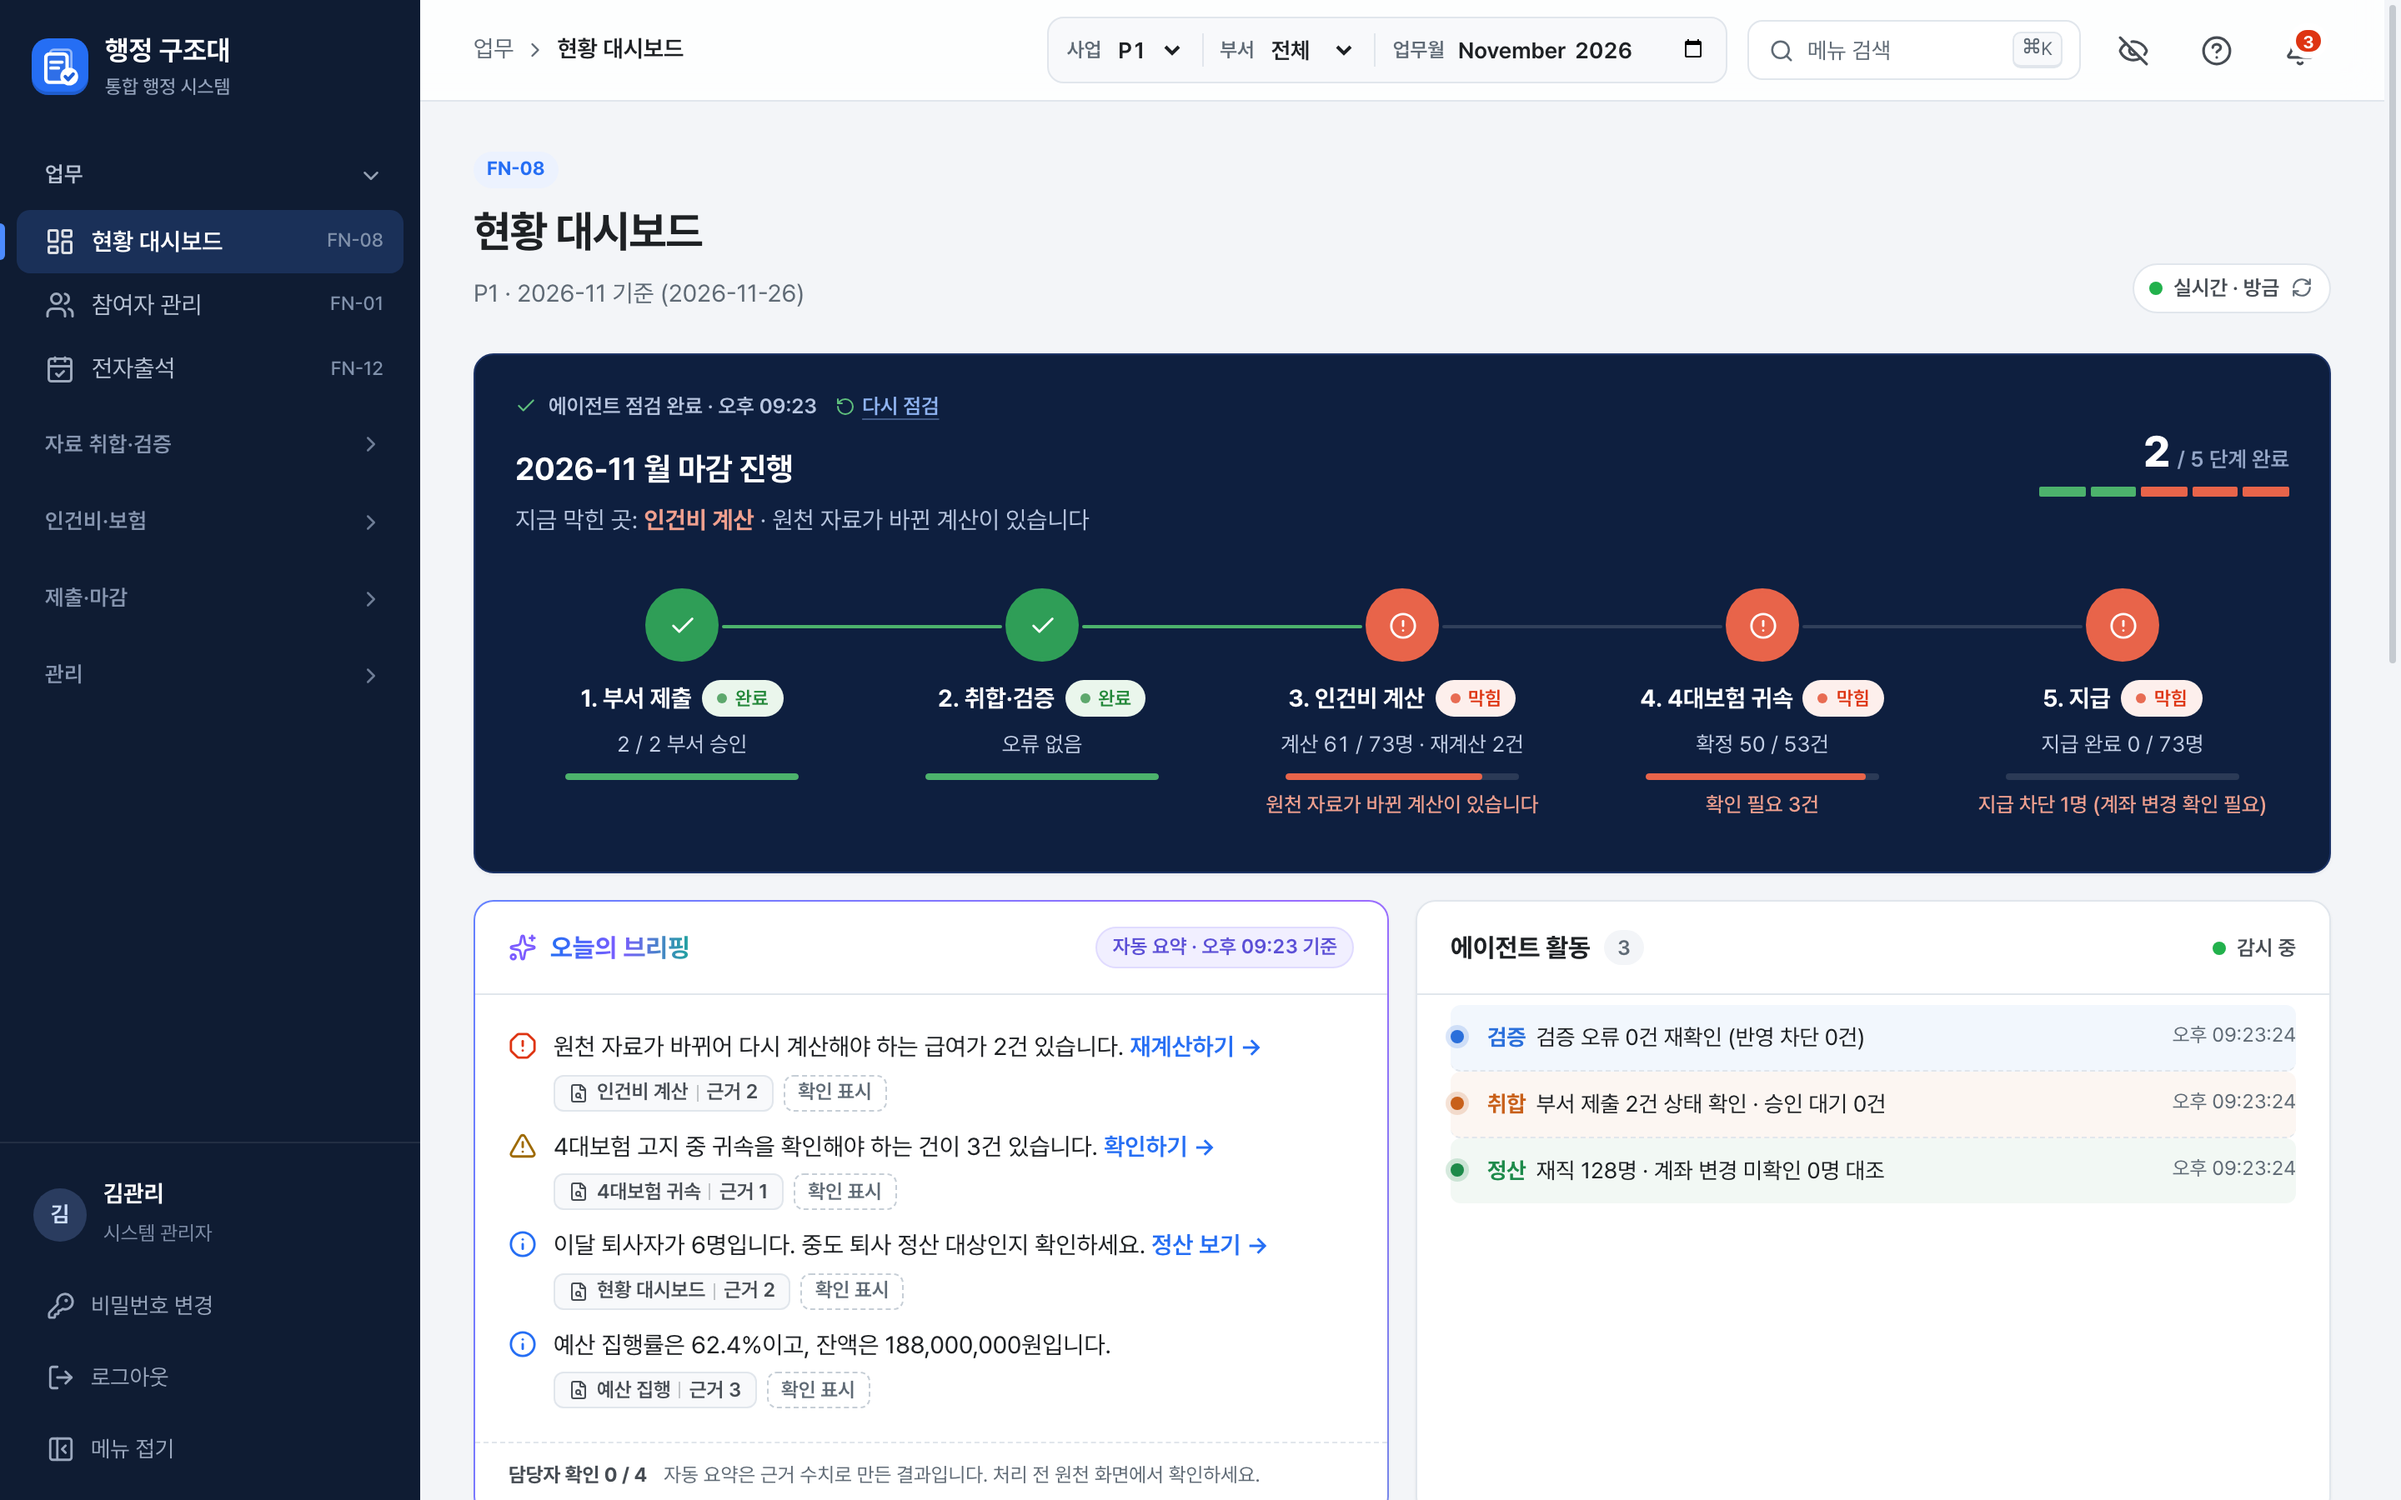
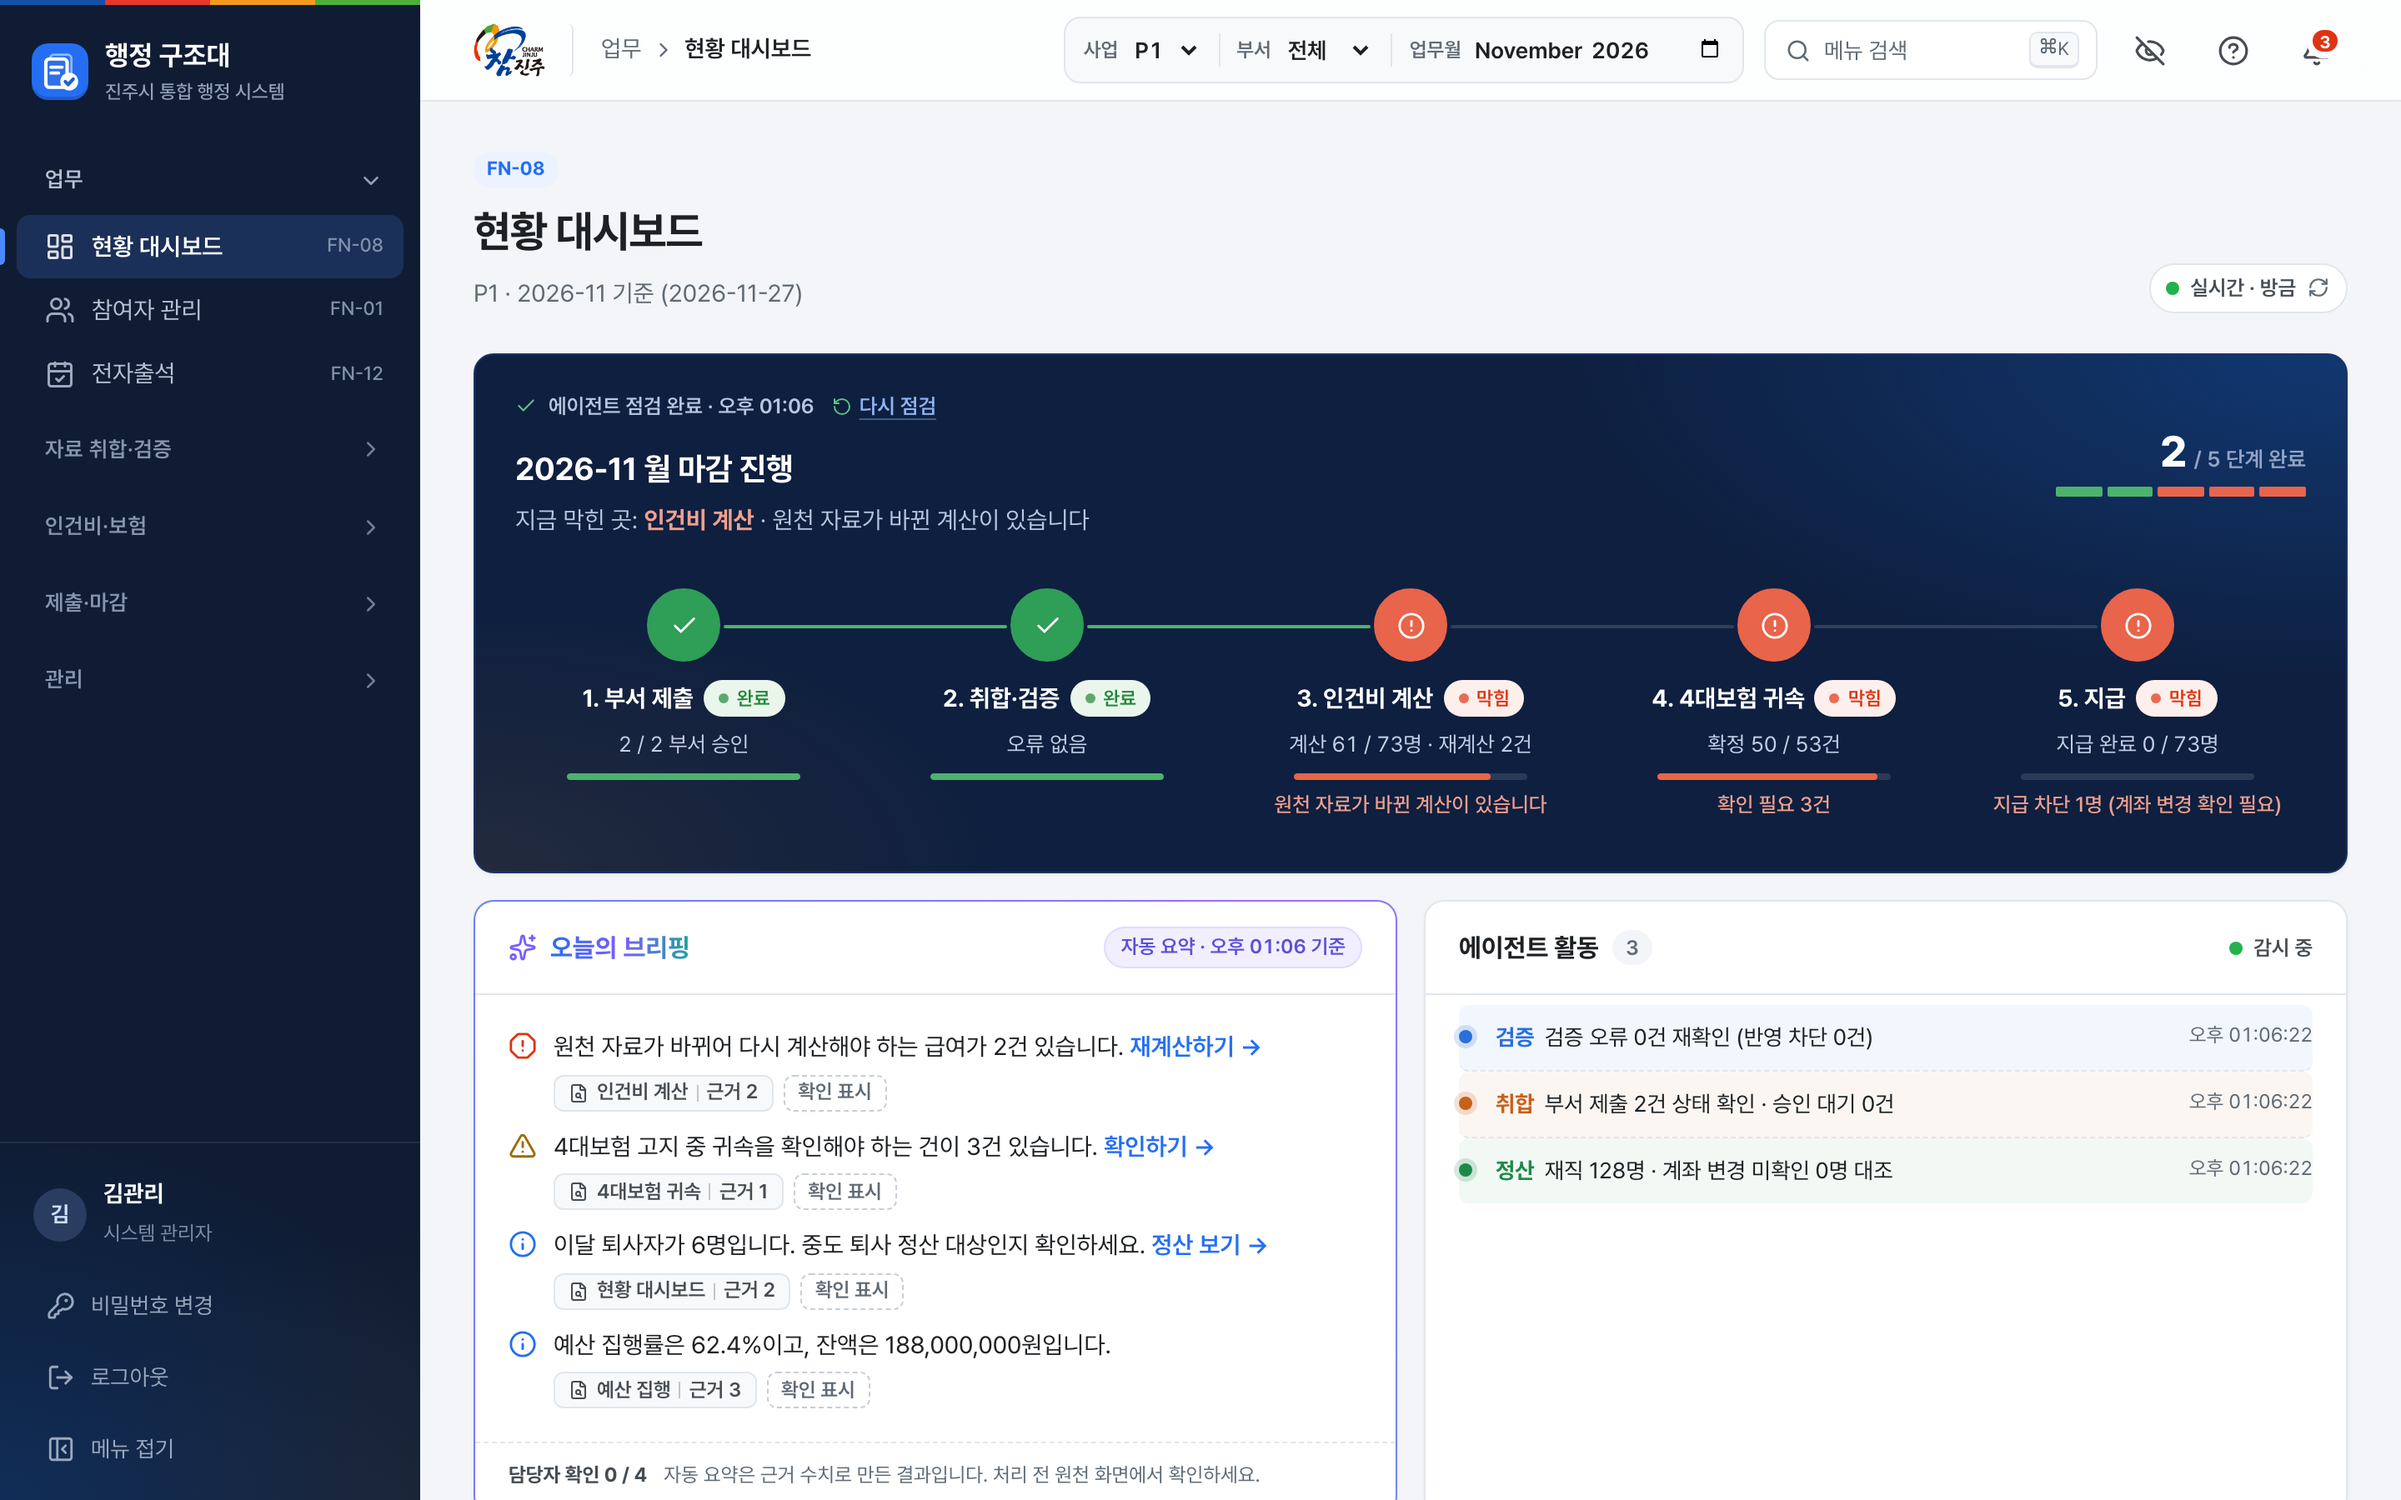
docs: README에 진주시 화면 반영, 스크린샷 새로 찍음
로그인·대시보드·자리 비움 화면을 현재 모습으로 다시 찍고(임시 데이터), 진주시 업무 시스템 화면 설명과 로고 사용 근거, scape.jsx 를 적었다.

diff --git a/README.md b/README.md
@@ -4,7 +4,7 @@
 
 # 행정 구조대
 
-**사업 참여자 인건비 정산을 에이전트와 함께 처리하는 행정 업무 웹**
+**진주시 사업 참여자 인건비 정산을 에이전트와 함께 처리하는 행정 업무 웹**
 
 부서별 엑셀 취합 → 검증 → 인건비 계산 → 4대보험 귀속 → 지급·제출 양식 출력까지<br />
 월 마감 흐름을 한 화면에서 따라갑니다.
@@ -79,11 +79,17 @@
 - **반응형**: 노트북부터 2560px 모니터까지 내용 폭과 메뉴가 맞춰집니다.
 - KRDS(범정부 디자인 시스템) 색·타이포 기준, Pretendard 글꼴.
 
-<details>
-<summary><b>로그인 화면</b></summary>
-<br />
-<img src="docs/screenshots/login.jpg" alt="로그인 화면" width="100%" />
-</details>
+### 진주시 업무 시스템 화면
+
+<img src="docs/screenshots/login.png" alt="로그인 화면: 참진주 로고와 슬로건, 월 마감 5단계, 촉석루와 남강 유등" width="100%" />
+
+- **로그인**: 참진주 로고와 공식 슬로건 이미지, 진주시청 주소, 인가된 담당자 전용 안내와 접속 기록 고지. 비밀번호 칸은 Caps Lock이 켜져 있으면 알려줍니다.
+- **월 마감 미리보기**: 왼쪽에서 취합 → 검증 → 계산 → 귀속 → 출력 단계가 차례로 넘어가며 에이전트가 하는 일을 보여줍니다. 마우스를 올리거나 누르면 그 단계에 멈춥니다.
+- **촉석루와 남강**: 바닥에 촉석루를 선으로 그리고 남강 물결이 흐릅니다. 남강유등축제처럼 유등이 늘 떠서 흘러가고, 마우스가 강 위를 지나가면 더 띄웁니다.
+- **앱 안**: 상단 바 왼쪽에 참진주 로고(누르면 진주시청 누리집), 사이드바 위 브랜드 4색 띠, 사이드바와 월 마감 카드에 로그인과 같은 은은한 빛.
+- 움직임 줄이기 설정을 켜면 단계 자동 전환·물결·유등이 모두 멈춥니다.
+
+> 참진주 로고(`public/jinju-logo.png`)와 슬로건(`public/jinju-slogan.png`)은 진주시 협약에 따라 진주시청 누리집의 이미지를 그대로 사용합니다.
 
 ## 화면 목록
 
@@ -188,7 +194,7 @@ npm run dev
 .
 ├─ index.html
 ├─ vite.config.js        # 개발 서버 프록시 (/api → API_URL)
-├─ public/               # 파비콘
+├─ public/               # 파비콘, 참진주 로고·슬로건
 ├─ docs/screenshots/     # README 화면 (임시 데이터)
 └─ src/
    ├─ main.jsx
@@ -196,6 +202,7 @@ npm run dev
    ├─ api.js             # fetch 래퍼, 토큰, 오류 메시지 정리
    ├─ ui.jsx             # 공통 컴포넌트(표·탭·모달·카드 등), useApi, useUrlState, 상태 라벨
    ├─ agents.jsx         # 에이전트 정의, 화면 안내 투어, 로그인 인트로
+   ├─ scape.jsx          # 로그인 배경 촉석루·남강 선화
    ├─ index.css          # 전체 스타일
    └─ pages/             # 화면별 컴포넌트
 ```
